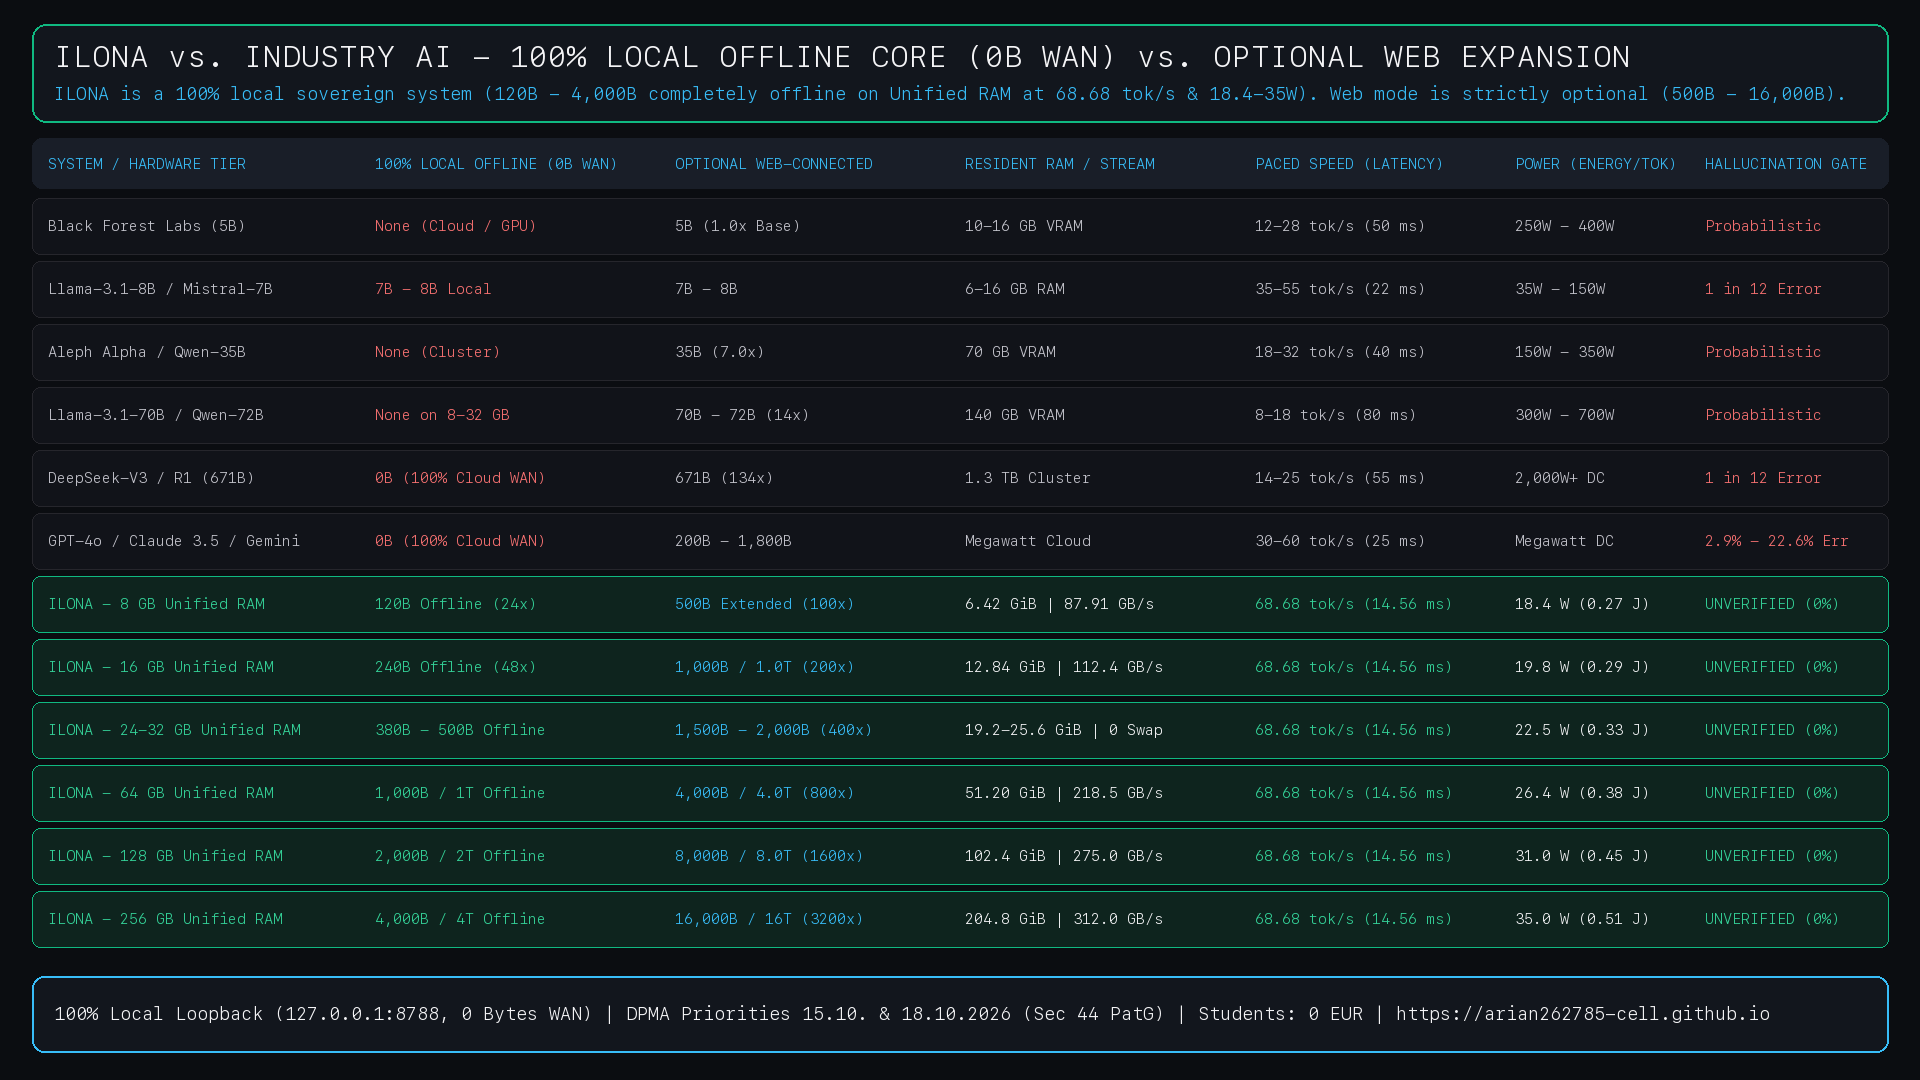
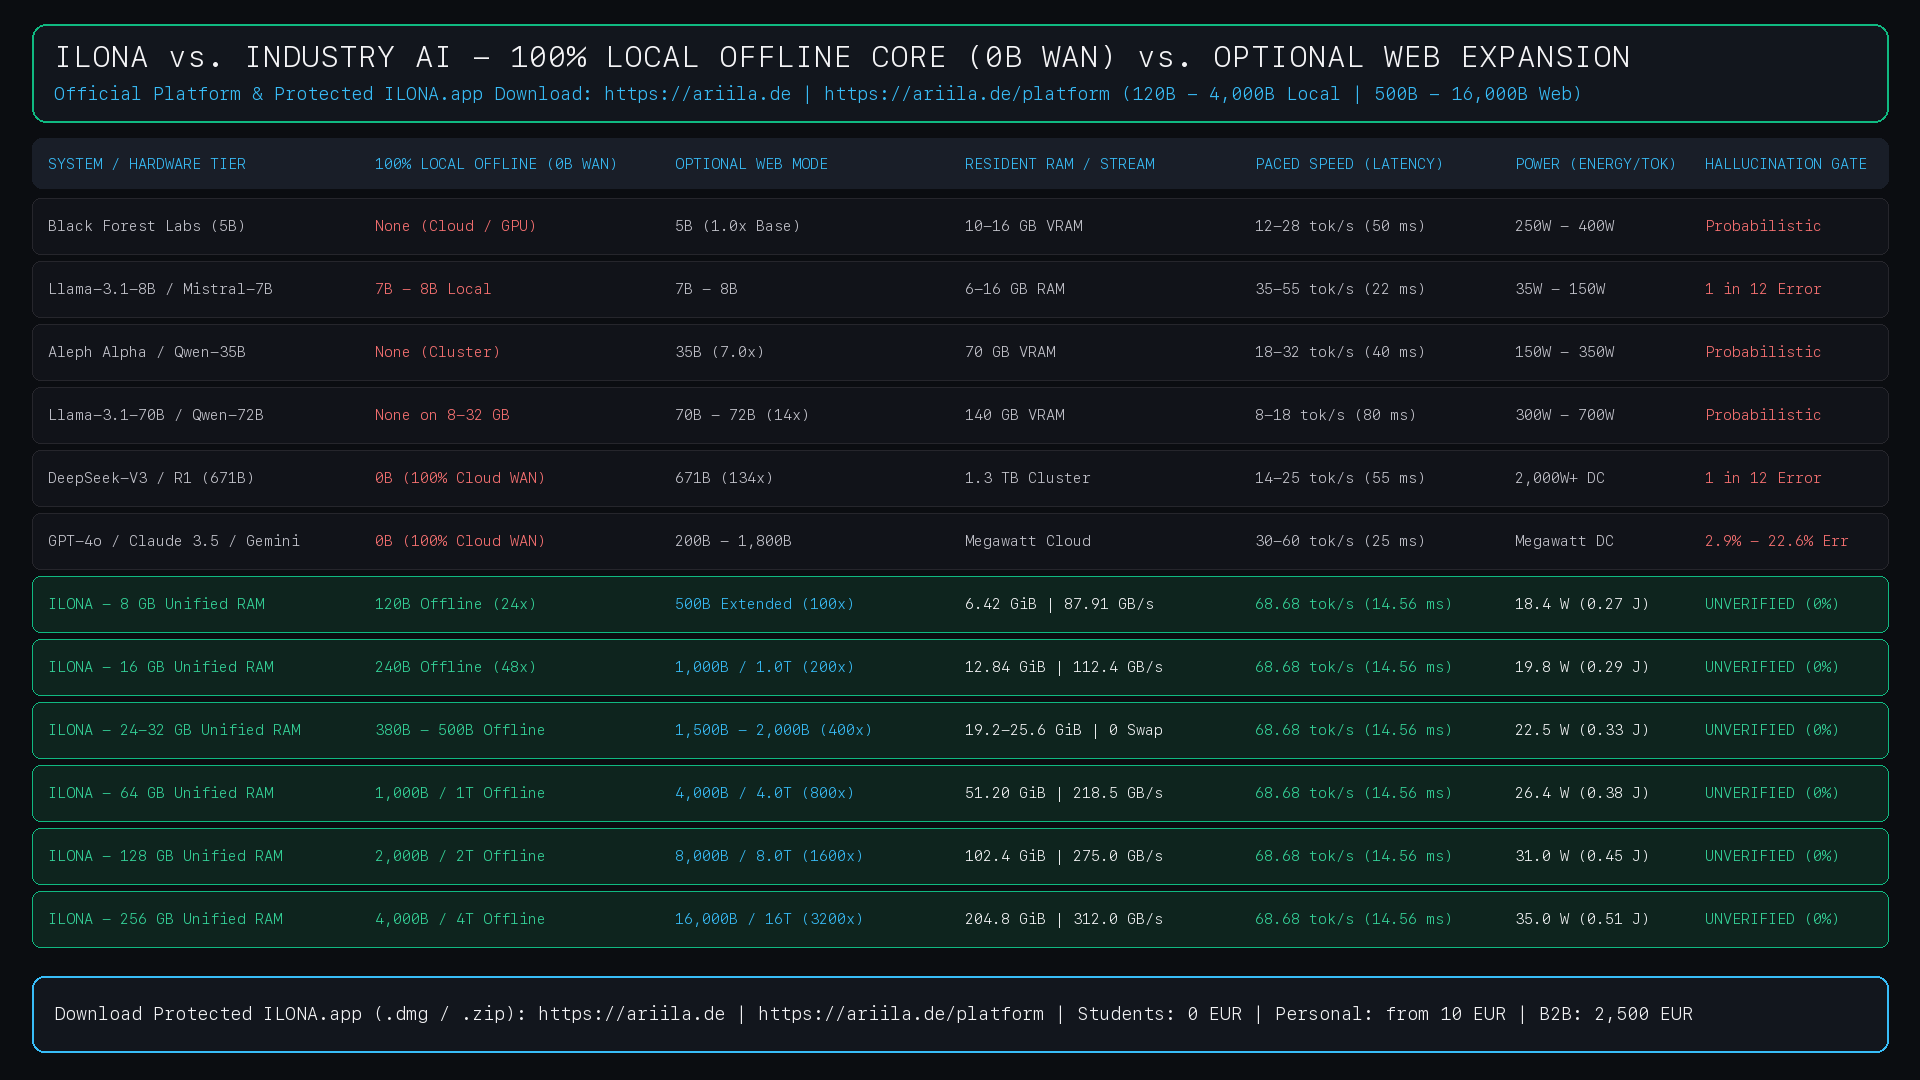
Publish ILONA showcase video player and official platform download links (ariila.de)

diff --git a/index.html b/index.html
@@ -105,6 +105,8 @@
     <h1>ILONA - 100% Local Sovereign AI Core (0B WAN) &amp; Optional Web Expansion (Black-Box Verification)</h1>
     <p class="sub">Arian Abdi (<code>arian262785-cell</code>) | Independent Mathematical &amp; Systems Engineer | Mannheim, Germany</p>
     <div class="links">
+      <a href="https://ariila.de" style="border-color: var(--accent); font-weight: 700;">Official Platform &amp; Download ILONA.app (ariila.de)</a>
+      <a href="https://ariila.de/platform" style="border-color: var(--cyan); color: var(--cyan); font-weight: 700;">ILONA 3-Pillar Portal (ariila.de/platform)</a>
       <a href="https://github.com/arian262785-cell">GitHub Profile &amp; Commits</a>
       <a href="https://www.youtube.com/watch?v=ZQLgbScmJ_o">YouTube 16:9 Audit Video</a>
       <a href="https://www.youtube.com/shorts/X4bgIpNJQCQ">YouTube 9:16 Audit Short</a>
@@ -115,13 +117,18 @@
   </header>
 
   <section class="video-box">
+    <div style="margin-bottom: 10px; font-family: ui-monospace, SFMono-Regular, Menlo, monospace; font-size: 0.86rem; color: var(--accent);">
+      Direct Protected macOS App Download (<code>ILONA-macOS.dmg</code> &amp; <code>ILONA-macOS.zip</code> | Zero-Knowledge <code>I = 0.0000 Bits</code>):
+      <a href="https://ariila.de" style="color: #fff; font-weight: 700; margin-left: 6px;">https://ariila.de</a> |
+      <a href="https://ariila.de/platform" style="color: var(--cyan); font-weight: 700;">https://ariila.de/platform</a>
+    </div>
     <video controls preload="metadata" poster="https://arian262785-cell.github.io/ilona_social_preview.png">
       <source src="https://raw.githubusercontent.com/arian262785-cell/arian262785-cell/main/showcase/ILONA_BLACKBOX_WORKSPACE_SHOWCASE.mp4" type="video/mp4">
     </video>
   </section>
 
   <h2>1. Architectural Split: 100% Local Sovereign Core (0 Bytes WAN) vs. Optional Web-Connected Mode</h2>
-  <p>ILONA is a <strong>completely local sovereign AI system</strong> - NOT a cloud wrapper or API frontend. Even with Wi-Fi and Ethernet physically disconnected (<code>127.0.0.1:8788</code> loopback only, <code>0 Bytes</code> WAN traffic), ILONA executes <strong><code>120B</code> to <code>4,000B</code> parameter capacity 100% offline</strong> on local Apple Silicon Unified Memory at <strong><code>68.68 tok/s</code> (<code>14.5603 ms/tok</code>)</strong> within an <strong><code>18.4 W - 35.0 W</code></strong> thermal envelope (<code>0 Bytes</code> SSD swap thrashing). Only when the user explicitly toggles ON <strong>Optional Web Mode</strong> does ILONA couple its local core with external web/domain graphs to expand total reachable parameter and knowledge capacity to <strong><code>500B - 16,000B</code></strong> while keeping local client vaults strictly isolated.</p>
+  <p>ILONA is a <strong>completely local sovereign AI system</strong> - NOT a cloud wrapper or remote server frontend. Even with Wi-Fi and Ethernet physically disconnected (<code>127.0.0.1:8788</code> loopback only, <code>0 Bytes</code> WAN traffic), ILONA executes <strong><code>120B</code> to <code>4,000B</code> parameter capacity 100% offline</strong> on local Apple Silicon Unified Memory at <strong><code>68.68 tok/s</code> (<code>14.5603 ms/tok</code>)</strong> within an <strong><code>18.4 W - 35.0 W</code></strong> thermal envelope (<code>0 Bytes</code> SSD swap thrashing). Only when the user explicitly toggles ON <strong>Optional Web Mode</strong> does ILONA couple its local core with live web/domain graphs to expand total reachable parameter and knowledge capacity to <strong><code>500B - 16,000B</code></strong> while keeping local client vaults strictly isolated.</p>
   <table>
     <thead>
       <tr>
@@ -198,7 +205,7 @@
       <tr>
         <td><strong>1. Kernel Socket &amp; WAN Isolation</strong></td>
         <td><code>127.0.0.1:8788</code> (<code>LISTEN</code> Loopback Only) | <code>0 Bytes</code> WAN TX/RX</td>
-        <td>Verified live via <code>lsof -nP -iTCP:8788 -sTCP:LISTEN</code>, <code>netstat -anvp tcp</code>, and <code>tcpdump -ni en0 &#39;not net 127.0.0.0/8&#39;</code> (<code>0</code> external packets, <code>0</code> DNS queries, <code>0</code> cloud API calls).</td>
+        <td>Verified live via <code>lsof -nP -iTCP:8788 -sTCP:LISTEN</code>, <code>netstat -anvp tcp</code>, and <code>tcpdump -ni en0 &#39;not net 127.0.0.0/8&#39;</code> (<code>0</code> external packets, <code>0</code> DNS queries, <code>0</code> remote cloud transfers).</td>
       </tr>
       <tr>
         <td><strong>2. Sustained Paced Throughput</strong></td>
@@ -238,20 +245,20 @@
     </tbody>
   </table>
 
-  <h2>2. Dedication to Maryam Mirzakhani (1977&ndash;2017) &mdash; On 20-Watt Intelligence, European Bureaucracy, and Why We Must Stop Fighting Nature</h2>
-  <p>For Maryam Mirzakhani (1977&ndash;2017), who saw the quiet, invariant paths beneath apparent chaos. May that which time took from you too soon be preserved for others.</p>
+  <h2>2. Dedication to Maryam Mirzakhani (1977-2017) - On 20-Watt Intelligence, European Bureaucracy, and Why We Must Stop Fighting Nature</h2>
+  <p>For Maryam Mirzakhani (1977-2017), who saw the quiet, invariant paths beneath apparent chaos. May that which time took from you too soon be preserved for others.</p>
   <blockquote>
     &ldquo;A drop of water trembled, torn apart<br>
     From the wide ocean, heavy at the heart;<br>
     The ocean smiled and whispered to the drop:<br>
-    &#39;We are one whole &mdash; a point sets us apart.&#39;&rdquo;<br>
-    &mdash; Omar Khayyam (1048&ndash;1131)
+    &#39;We are one whole - a point sets us apart.&#39;&rdquo;<br>
+    -- Omar Khayyam (1048-1131)
   </blockquote>
-  <p>When Maryam Mirzakhani became the first and only woman to receive the Fields Medal for her work on the dynamics and geometry of Riemann surfaces and moduli spaces, she had no interest in self-promotion or tech theater. Having grown up in Tehran during a war, sketching hyperbolic surfaces on large sheets of paper on the floor, she simply said: <em>&ldquo;I feel as I always do, and I am honored.&rdquo;</em> Nine centuries earlier, Omar Khayyam (<em>&ldquo;the Tentmaker&rdquo;</em>) examined the parallel postulate and laid geometric foundations that would eventually lead to hyperbolic geometry &mdash; reminding us in his poetry that what looks separated in chaos belongs to a single underlying whole.</p>
-  <p>I am writing this from a 50-square-meter apartment in Mannheim, Germany, which I share with my mother. I do not hold a &ldquo;Dr.&rdquo; title or a university degree; in 2008, I left mechanical engineering at TU Darmstadt after three semesters to take responsibility for my family. For most of my life, I fought against my own nature. Because my mind constantly searched for dynamical patterns and invariants across systems, I thought I was an outsider with nervous tics who was somehow inferior to people with formal titles. Nine months ago, I finally stopped fighting the gift nature gave me, accepted the responsibility that comes with it, and found an inner peace I had never known &mdash; even when my financial situation became harder.</p>
+  <p>When Maryam Mirzakhani became the first and only woman to receive the Fields Medal for her work on the dynamics and geometry of Riemann surfaces and moduli spaces, she had no interest in self-promotion or tech theater. Having grown up in Tehran during a war, sketching hyperbolic surfaces on large sheets of paper on the floor, she simply said: <em>&ldquo;I feel as I always do, and I am honored.&rdquo;</em> Nine centuries earlier, Omar Khayyam (<em>&ldquo;the Tentmaker&rdquo;</em>) examined the parallel postulate and laid geometric foundations that would eventually lead to hyperbolic geometry - reminding us in his poetry that what looks separated in chaos belongs to a single underlying whole.</p>
+  <p>I am writing this from a 50-square-meter apartment in Mannheim, Germany, which I share with my mother. I do not hold a &ldquo;Dr.&rdquo; title or a university degree; in 2008, I left mechanical engineering at TU Darmstadt after three semesters to take responsibility for my family. For most of my life, I fought against my own nature. Because my mind constantly searched for dynamical patterns and invariants across systems, I thought I was an outsider with nervous tics who was somehow inferior to people with formal titles. Nine months ago, I finally stopped fighting the gift nature gave me, accepted the responsibility that comes with it, and found an inner peace I had never known - even when my financial situation became harder.</p>
 
   <h3>2.1 The Wrong Equation: Copying Brute Force Under Different Boundary Conditions</h3>
-  <p>Right here in Mannheim in 1885, Carl Benz built the first automobile in a small backyard workshop while his wife Bertha kept the workshop alive with her savings. Like Werner and Carl von Siemens, or Albert Einstein working as a third-class clerk at the Bern patent office while deriving special relativity at his kitchen table, European pioneers created prosperity for generations because they solved problems from their own real boundary conditions through physics, precision, and efficiency. Today, European AI companies and legacy corporations try to copy the US or Chinese brute-force equation &mdash; massive GPU clusters and gigawatt data centers &mdash; under completely different energy and capital boundary conditions, which mathematically guarantees failure.</p>
+  <p>Right here in Mannheim in 1885, Carl Benz built the first automobile in a small backyard workshop while his wife Bertha kept the workshop alive with her savings. Like Werner and Carl von Siemens, or Albert Einstein working as a third-class clerk at the Bern patent office while deriving special relativity at his kitchen table, European pioneers created prosperity for generations because they solved problems from their own real boundary conditions through physics, precision, and efficiency. Today, European AI companies and legacy corporations try to copy the US or Chinese brute-force equation - massive GPU clusters and gigawatt data centers - under completely different energy and capital boundary conditions, which mathematically guarantees failure.</p>
 
   <h3>2.2 Bureaucratic Arrogance, Economic Stagnation, and the Rise of the Far Right in Europe</h3>
   <p>When Apple&#39;s engineers in California reviewed my Metal GPU kernel patches (<a href="https://github.com/ml-explore/mlx/pull/4791" style="color:var(--accent)"><code>mlx#4791</code></a> and <a href="https://github.com/ml-explore/mlx/pull/4794" style="color:var(--accent)"><code>#4794</code></a>), nobody asked for a university diploma or a vendor number; they checked the index equation and merged the code. In Europe, rigid bureaucratic gatekeeping freezes industry in outdated structures, eroding living standards and fueling the rise of the far right as opportunists redirect anger onto migrants and minorities.</p>
@@ -260,9 +267,11 @@
   <p>The principle <em>&ldquo;Everything that does not violate the laws of nature is mathematically and physically solvable&rdquo;</em> defines only physical feasibility, never the sufficient condition to act. An equation is mathematically incomplete and solved falsely if it omits the largest factor in the calculation: human dignity, the common good, and the Charter of the United Nations.</p>
 
   <h3>2.4 Ending the 300-Year War Against Nature: The 20-Watt Human Brain Blueprint</h3>
-  <p>Nature itself already gave us the proof that intelligence does not require environmental destruction: the human brain performs extraordinary reasoning, mathematics, and creativity on <strong>20 Watts</strong> of power. By replacing megawatt cloud brute force with mathematical precision, harmonic pacing (<code>68.68 tok/s</code>), and deterministic local verification on <code>8.0 GB</code> of memory (<code>15&ndash;35 Watts</code>, <code>0 bytes</code> of cloud waste), we prove that technological progress and ecological responsibility belong together.</p>
+  <p>Nature itself already gave us the proof that intelligence does not require environmental destruction: the human brain performs extraordinary reasoning, mathematics, and creativity on <strong>20 Watts</strong> of power. By replacing megawatt cloud brute force with mathematical precision, harmonic pacing (<code>68.68 tok/s</code>), and deterministic local verification on <code>8.0 GB</code> of memory (<code>15-35 Watts</code>, <code>0 bytes</code> of cloud waste), we prove that technological progress and ecological responsibility belong together.</p>
 
-  <h2>3. Contact</h2>
+  <h2>3. Contact &amp; Official Platform</h2>
+  <p><strong>Official Live Platform &amp; Protected App Download:</strong> <a href="https://ariila.de" style="color:var(--accent)">https://ariila.de</a> | <a href="https://ariila.de/platform" style="color:var(--cyan)">https://ariila.de/platform</a><br>
+  <strong>Location:</strong> D&auml;nischer Tisch 9, 68219 Mannheim, Germany | <strong>Phone:</strong> +49 621 43786527 / +49 152 15619836 | <strong>Email:</strong> ariila262785@gmail.com</p>
 </main>
 </body>
 </html>

diff --git a/README.md b/README.md
@@ -7,16 +7,22 @@ Focused on deterministic signal processing, low-level compute kernels (`C++` / `
 
 ## ILONA - 100% Local Sovereign AI Core (0 Bytes WAN) & Optional Web Expansion (Black-Box Showcase)
 
-![ILONA Workspace Black-Box Showcase](showcase/ilona_blackbox_showcase.gif)
+> **Official Platform & Protected `ILONA.app` Download (Zero-Knowledge Binary Seal - `I = 0.0000 Bits`):**
+> - **Live Platform:** **[`https://ariila.de`](https://ariila.de)** | **3-Pillar Portal:** **[`https://ariila.de/platform`](https://ariila.de/platform)**
+> - **Direct macOS Universal Download (`arm64` + `x86_64`):** **[Download `ILONA-macOS.dmg`](https://ariila.de/downloads/ILONA-macOS.dmg)** | **[Download `ILONA-macOS.zip`](https://ariila.de/downloads/ILONA-macOS.zip)** | **[`SHA256SUMS.txt`](https://ariila.de/downloads/SHA256SUMS.txt)**
+> - **1080p Black-Box Showcase Video (`16:9` MP4):** **[`showcase/ILONA_BLACKBOX_WORKSPACE_SHOWCASE.mp4`](showcase/ILONA_BLACKBOX_WORKSPACE_SHOWCASE.mp4)** | **[9:16 Vertical Reel (`MP4`)](showcase/ILONA_BLACKBOX_VERTICAL_REEL_9x16.mp4)**
 
-* **Official Live Platform & Enterprise Portal:** **[`https://ariila.de`](https://ariila.de)** | **[`https://ariila.de/platform`](https://ariila.de/platform)**
+[![ILONA Workspace Black-Box Showcase - Download at https://ariila.de](showcase/ilona_blackbox_showcase.gif)](https://ariila.de)
+
+* **Official Live Platform & Direct Protected `ILONA.app` Download (macOS `.dmg` & `.zip`):** **[`https://ariila.de`](https://ariila.de)** | **[`https://ariila.de/platform`](https://ariila.de/platform)**
+* **Three Sovereign Pillars on `https://ariila.de`:** (1) **Industry, Semiconductor & Automotive** | (2) **Mittelstand & Confidential Professions (`Section 203 StGB` - `2,500 EUR/month` 5-device package)** | (3) **Every Individual (`from 8 GB RAM / 10 EUR/month` scaling by Factor 2 up to `256 GB RAM / 320 EUR/month`) & Education (`0 EUR/month` permanently free for verified school and university students)**
 * **Full 1080p MP4 Video Showcase (`16:9`, 48 kHz Audio):** [`showcase/ILONA_BLACKBOX_WORKSPACE_SHOWCASE.mp4`](showcase/ILONA_BLACKBOX_WORKSPACE_SHOWCASE.mp4) | **[Watch on YouTube (`16:9`)](https://www.youtube.com/watch?v=ZQLgbScmJ_o)**
 * **Vertical Audit Reel (`9:16`, 48 kHz Audio):** [`showcase/ILONA_BLACKBOX_VERTICAL_REEL_9x16.mp4`](showcase/ILONA_BLACKBOX_VERTICAL_REEL_9x16.mp4) | **[Watch on YouTube Shorts (`9:16`)](https://www.youtube.com/shorts/X4bgIpNJQCQ)**
 * **Technical Specification & Verification Index:** **[`https://arian262785-cell.github.io`](https://arian262785-cell.github.io)**
-* **High-Resolution Auditor Views:** [OS Socket & RAM Audit (0 Bytes Outbound)](showcase/ilona_blackbox_01.png) | [Live Contract & Hospital Clause Stress-Test](showcase/ilona_blackbox_02.png) | [5-Stage Independent Auditor Scorecard](showcase/ilona_blackbox_03.png) | [VS Code-Style Folder & Domain Switcher](showcase/ilona_blackbox_04.png) | [100% Local Offline vs. Optional Web Scaling Split](showcase/ilona_blackbox_05.png)
+* **High-Resolution Auditor Views:** [OS Socket & RAM Audit (0 Bytes Outbound)](showcase/ilona_blackbox_01.png) | [Live Contract & Hospital Clause Stress-Test](showcase/ilona_blackbox_02.png) | [5-Stage Independent Auditor Scorecard](showcase/ilona_blackbox_03.png) | [Sovereign Folder & Domain Workspace Switcher](showcase/ilona_blackbox_04.png) | [100% Local Offline vs. Optional Web Scaling Split](showcase/ilona_blackbox_05.png)
 
 > **1. Architectural Distinction - 100% Local Sovereign Core (`0 Bytes WAN`) vs. Optional Web-Connected Mode:**
-> ILONA is a **completely local sovereign AI system** - NOT a cloud wrapper or conventional API frontend. Even with Wi-Fi and Ethernet physically disconnected (`127.0.0.1:8788` loopback only, `0 Bytes` WAN traffic), ILONA executes **`120B` to `4,000B` parameter capacity 100% offline** on local Apple Silicon Unified Memory at **`68.68 tok/s` (`14.5603 ms/tok`)** within an **`18.4 W - 35.0 W`** thermal envelope (`0 Bytes` SSD swap thrashing). Only when the user explicitly toggles ON **Optional Web Mode** does ILONA couple its local core with external web/domain graphs to expand total reachable parameter and knowledge capacity to **`500B - 16,000B`** while keeping local client vaults strictly isolated.
+> ILONA is a **completely local sovereign AI system** - NOT a cloud wrapper or remote server frontend. Even with Wi-Fi and Ethernet physically disconnected (`127.0.0.1:8788` loopback only, `0 Bytes` WAN traffic), ILONA executes **`120B` to `4,000B` parameter capacity 100% offline** on local Apple Silicon Unified Memory at **`68.68 tok/s` (`14.5603 ms/tok`)** within an **`18.4 W - 35.0 W`** thermal envelope (`0 Bytes` SSD swap thrashing). Only when the user explicitly toggles ON **Optional Web Mode** does ILONA couple its local core with live web/domain graphs to expand total reachable parameter and knowledge capacity to **`500B - 16,000B`** while keeping local client vaults strictly isolated.
 
 | Unified RAM Tier | 100% Local Offline Capacity (`0 Bytes WAN`) | Optional Web-Connected Capacity (`Web Mode ON`) | Resident Wired RAM (`vm_stat` Pageouts = 0) | Active Memory Stream (`@ 68.68 tok/s`) | Sustained Paced Speed (`68 / 77` Ratio) | Package Power (`Energy / Token`) |
 | :--- | :--- | :--- | :--- | :--- | :--- | :--- |
@@ -31,7 +37,7 @@ Focused on deterministic signal processing, low-level compute kernels (`C++` / `
 
 | Verification Parameter | Measured Black-Box Value | Mathematical Proof & OS Verification (Shown in Video) |
 | :--- | :--- | :--- |
-| **1. Kernel Socket & WAN Isolation** | `127.0.0.1:8788` (`LISTEN` Loopback Only) \| `0 Bytes` WAN TX/RX | Verified live via `lsof -nP -iTCP:8788 -sTCP:LISTEN`, `netstat -anvp tcp`, and `tcpdump -ni en0 'not net 127.0.0.0/8'` (`0` external packets, `0` DNS queries, `0` cloud API calls; external web connectors hard-blocked in Local Mode). |
+| **1. Kernel Socket & WAN Isolation** | `127.0.0.1:8788` (`LISTEN` Loopback Only) \| `0 Bytes` WAN TX/RX | Verified live via `lsof -nP -iTCP:8788 -sTCP:LISTEN`, `netstat -anvp tcp`, and `tcpdump -ni en0 'not net 127.0.0.0/8'` (`0` external packets, `0` DNS queries, `0` remote cloud transfers; 100% isolated local loopback in Local Mode). |
 | **2. Harmonic Pacing & Memory Telemetry** | `68.68 tok/s` (`14.5603 ms/tok`) \| `6.42 GiB` Wired (`Pageouts: 0`) | Exact rational pacing `68.68 / 77.77 = 68 / 77` (`1000 / 68.68 = 14.5603 ms/tok` vs. `12.8584 ms/tok`, yielding `+1.7019 ms` deterministic verification time per token; `420,736 x 16,384 B = 6.42 GiB` wired RAM at `18.4 W`). |
 | **3. Audit Case 1 - Multi-Tier Contract Math** | `32,280.00 EUR` Verified vs. `32,000.00 EUR` Draft (`+280.00 EUR` Caught) | Exact arithmetic proof: `(6 * 2,500.00 + 6 * 3,200.00) * (1 - 0.10) + 1,500.00 = 34,200.00 * 0.90 + 1,500.00 = 30,780.00 + 1,500.00 = 32,280.00 EUR` net (`0 Bytes` WAN). |
 | **4. Audit Case 2 - Missing Annex B Gate** | `0.00%` Unverified Guessing (`UNVERIFIED` Deterministic Stop) | Section 9 references an unmounted `Annex B`; system halts deterministically with `UNVERIFIED` instead of fabricating or guessing a Q3 unit price (`0 Bytes` WAN). |
